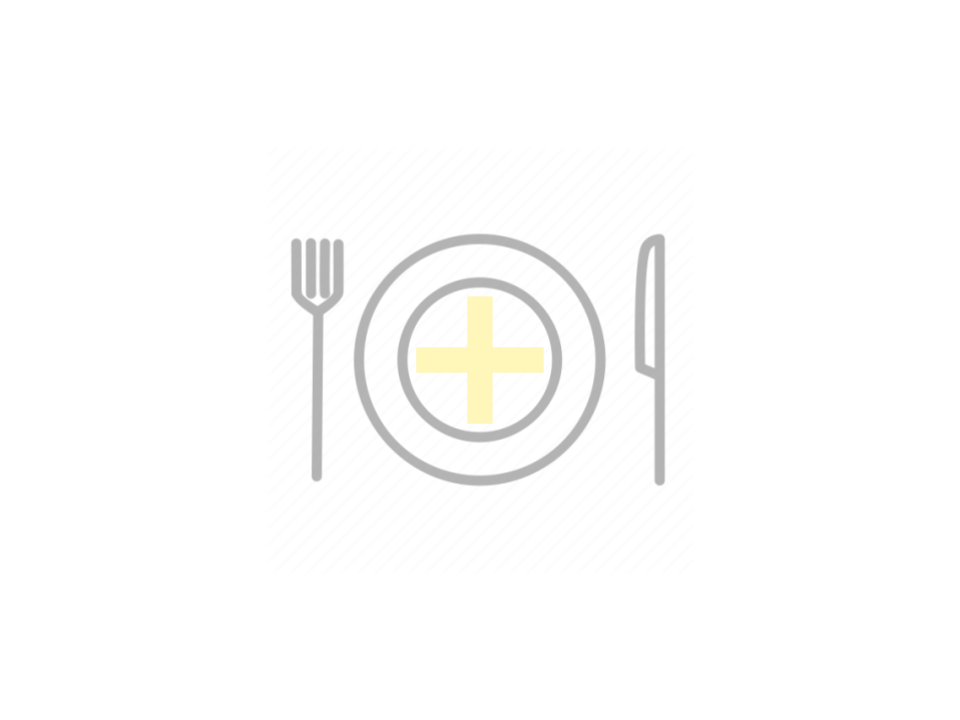
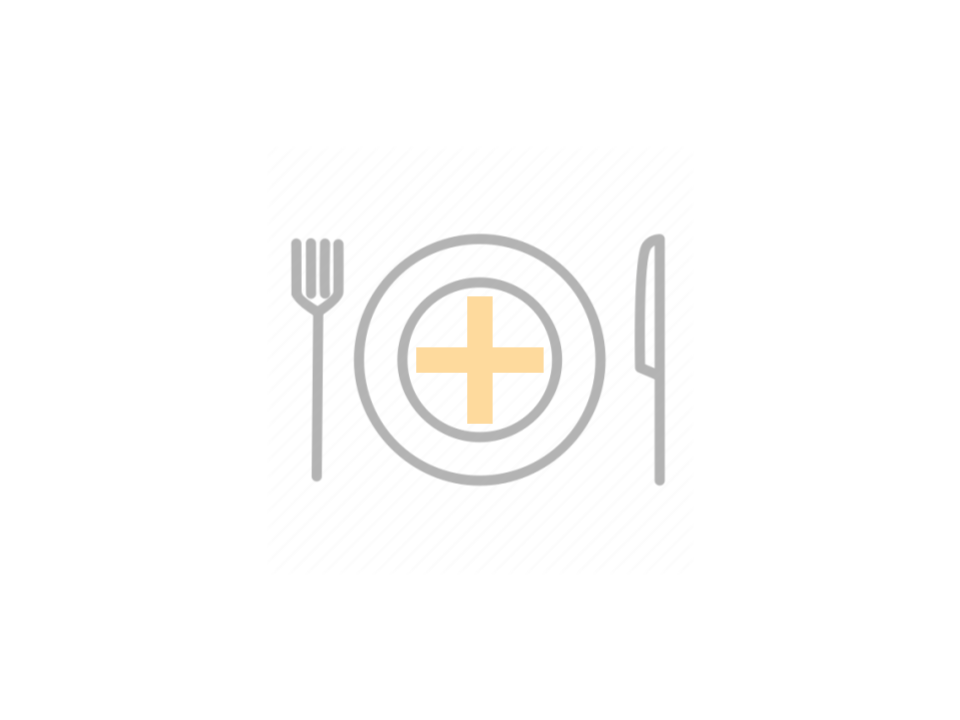
minor change to yellow color and photo-placeholder

Changed region(s): [[0.4375, 0.3972, 0.5625, 0.5806]]

diff --git a/mysite/cooklog/static/css/cooklog.css b/mysite/cooklog/static/css/cooklog.css
@@ -180,13 +180,13 @@ a:visited {
     width: 100%;
     height: 300px;
     object-fit: cover;
-    border: 5px solid #FFF6B9;
+    border: 5px solid #feda9d;
 }
 
 .dish-photo-placeholder img {
     width: 100%;
     object-fit: cover;
-    border: 5px solid #FFF6B9;
+    border: 5px solid #feda9d;
 }
 
 .dish-bottom {
@@ -314,13 +314,13 @@ a:visited {
     max-width: 300px;
     height: 300px;
     object-fit: cover;
-    border: 5px solid #FFF6B9;
+    border: 5px solid #feda9d;
 }
 .detail-photo-placeholder img {
     width: 100%;
     max-width: 300px;
     object-fit: cover;
-    border: 5px solid #FFF6B9;
+    border: 5px solid #feda9d;
 }
 .detail-likes {
     margin-left: 10px;
